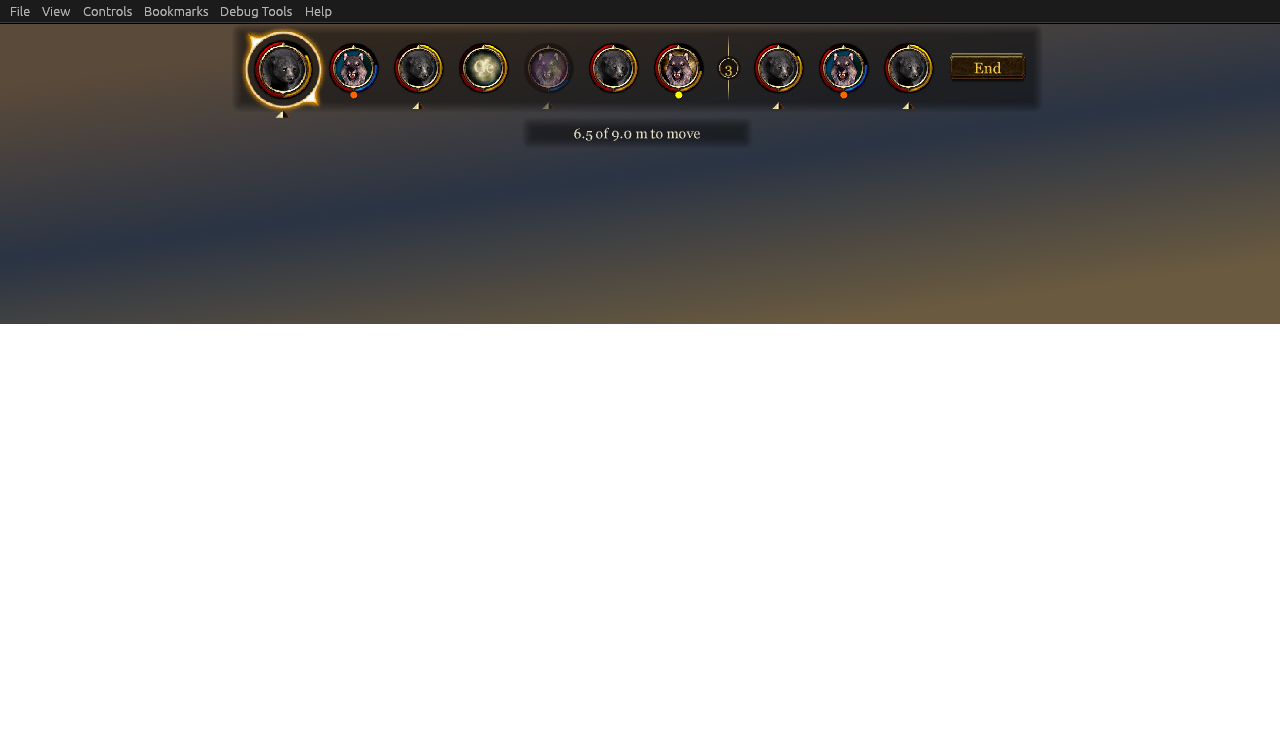
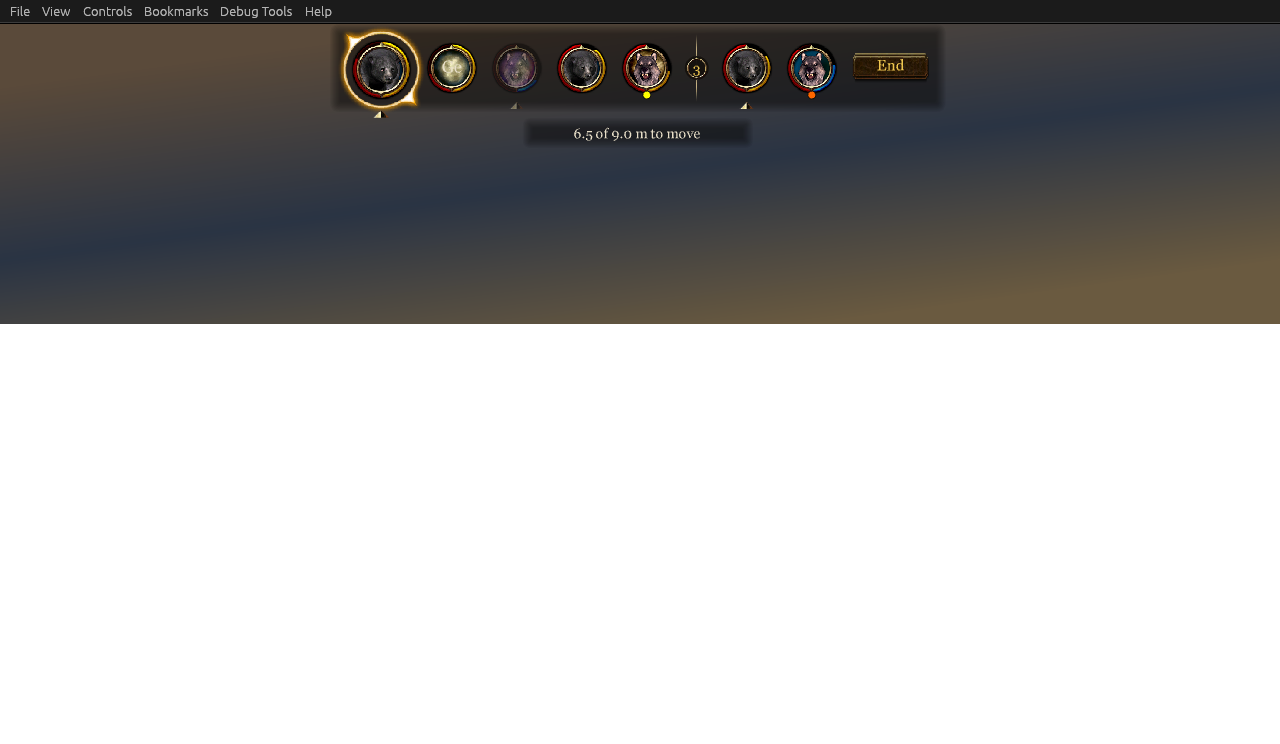
The turn bar shows each combatant once
The user: why twelve portraits, when one a character would do? The bar
showed the next twelve turns, everyone twice across two rounds. It shows
each combatant once now, as BG3's does: the current first, the rest of
this round, the round's divider, then the next round's up to the
current (at most twelve, for a big fight to fit). The portraits were one
render a creature already. The fourth play test's report comes with it.

Claude-Session: https://claude.ai/code/session_01SHrV5jHcG2TiBdHZ1wfhrC

Changed region(s): [[0.1875, 0.0309, 0.8125, 0.1546]]

diff --git a/tests/test_turnorder.cpp b/tests/test_turnorder.cpp
@@ -111,20 +111,24 @@ TEST_CASE("a combatant whose place has passed this round acts from the next", "[
     CHECK(order.Current()->id == 4);
 }
 
-TEST_CASE("the upcoming turns run on into the next round, without the fallen others", "[order]")
+TEST_CASE("the upcoming turns are each combatant once, running on into the next round", "[order]")
 {
     TurnOrder order;
     order.Begin({Make(1, Side::Party, 20), Make(2, Side::Party, 15), Make(3, Side::Enemy, 10)});
-    CHECK(Upcoming(order, 5) == std::vector<ObjectId>{1, 2, 3, 1, 2});
-    const auto slots = order.Upcoming(5);
+    CHECK(Upcoming(order, 12) == std::vector<ObjectId>{1, 2, 3});
+    CHECK_FALSE(order.Advance());                                 // to 2, the same round
+    CHECK(Upcoming(order, 12) == std::vector<ObjectId>{2, 3, 1}); // 1 again only next round
+    const auto slots = order.Upcoming(12);
     CHECK(slots[0].current);
     CHECK(slots[0].round == 1);
-    CHECK(slots[3].round == 2);
+    CHECK(slots[1].round == 1);
+    CHECK(slots[2].round == 2);
+    CHECK(Upcoming(order, 2) == std::vector<ObjectId>{2, 3}); // at most count
 
-    order.Find(2)->down = true; // a party member down: still shown
-    CHECK(Upcoming(order, 3) == std::vector<ObjectId>{1, 2, 3});
+    order.Find(1)->down = true; // a party member down: still shown
+    CHECK(Upcoming(order, 12) == std::vector<ObjectId>{2, 3, 1});
     order.Find(3)->down = true; // an enemy down: not
-    CHECK(Upcoming(order, 3) == std::vector<ObjectId>{1, 2, 1});
+    CHECK(Upcoming(order, 12) == std::vector<ObjectId>{2, 1});
 }
 
 TEST_CASE("a party all fallen stays in the order, and advancing goes round without end", "[order]")

diff --git a/tests/test_bar.cpp b/tests/test_bar.cpp
@@ -70,7 +70,7 @@ TEST_CASE("the bar's string says whose turn it is and who comes after", "[bar]")
     CHECK(bar.head[5] == L"1");                   // an action left
     CHECK(bar.head[6] == L"9.0");                 // meters left
     CHECK(bar.head[7] == L"9.0");                 // meters at most
-    REQUIRE(bar.cards.size() >= 5);
+    REQUIRE(bar.cards.size() == 4);               // each combatant once
     for (const auto &card : bar.cards)
     {
         REQUIRE(card.size() == 13);
@@ -86,7 +86,15 @@ TEST_CASE("the bar's string says whose turn it is and who comes after", "[bar]")
     CHECK(bar.cards[1][0] == std::to_wstring(kGenlock));
     CHECK(bar.cards[1][1] == L"2"); // an enemy
     CHECK(bar.cards[1][6] == L"0"); // the AI's
-    CHECK(bar.cards[4][7] == L"2"); // the next round's
+    // The hero's turn over: the genlock first, the hero last, next round's.
+    CHECK(w.machine.OnPauseKey());
+    w.Frame();
+    w.Frame();
+    const Decoded after = Decode(EncodeBar(w.machine.View()));
+    REQUIRE(after.cards.size() == 4);
+    CHECK(after.cards.front()[0] == std::to_wstring(kGenlock));
+    CHECK(after.cards.back()[0] == std::to_wstring(kHero));
+    CHECK(after.cards.back()[7] == L"2");
 }
 
 TEST_CASE("a name cannot break the bar's string apart", "[bar]")

diff --git a/src/core/TurnOrder.h b/src/core/TurnOrder.h
@@ -78,8 +78,10 @@ class TurnOrder
 
     [[nodiscard]] bool AnyStanding(Side side) const;
 
-    // The turns to come, the current first: the rest of this round, then
-    // the next, up to `count`. Fallen party members are included (they are
+    // The turns to come, the current first and each combatant once, as BG3's
+    // bar shows them: the rest of this round, then the next round's up to
+    // the current, at most `count`. Two laps had everyone twice on the bar
+    // (the user, 2026-09-30). Fallen party members are included (they are
     // still in the fight), fallen others not.
     [[nodiscard]] std::vector<Slot> Upcoming(std::size_t count) const;
 

diff --git a/tests/test_machine.cpp b/tests/test_machine.cpp
@@ -694,11 +694,11 @@ TEST_CASE("the view lists the turns to come, whose it is and what is left", "[ma
     CHECK(view.current == kHero);
     CHECK(view.actionsLeft == 1);
     CHECK(view.movementMax == 9.0f);
-    REQUIRE(view.upcoming.size() >= 4);
+    REQUIRE(view.upcoming.size() == 4); // each combatant once
     CHECK(view.upcoming[0].id == kHero);
     CHECK(view.upcoming[0].current);
     CHECK(view.upcoming[1].id == kGenlock);
-    CHECK(view.upcoming[4].round == 2);
+    CHECK(view.upcoming[3].round == 1);
 }
 
 TEST_CASE("new settings apply from the next turn", "[machine]")

diff --git a/tools/mutants.py b/tools/mutants.py
@@ -371,6 +371,12 @@ MUTANTS = [
         "    }\n    Emit(EventKind::FightOver",
     ),
     Mutant(
+        "the bar shows each combatant twice",
+        "src/core/TurnOrder.cpp",
+        "    for (std::size_t step = 1; step < order_.size() && slots.size() < count; ++step)",
+        "    for (std::size_t step = 1; step < 2 * order_.size() && slots.size() < count; ++step)",
+    ),
+    Mutant(
         "a stun in a creature's own turn is waited out",
         MACHINE,
         "                currentStunned_ = true;\n",

diff --git a/src/core/TurnOrder.cpp b/src/core/TurnOrder.cpp
@@ -145,7 +145,7 @@ std::vector<TurnOrder::Slot> TurnOrder::Upcoming(std::size_t count) const
     slots.push_back({&order_[current_], round_, true});
     std::size_t index = current_;
     int round = round_;
-    for (std::size_t step = 0; step < 2 * order_.size() && slots.size() < count; ++step)
+    for (std::size_t step = 1; step < order_.size() && slots.size() < count; ++step)
     {
         ++index;
         if (index >= order_.size())

diff --git a/dev/PLAYTEST-2026-09-30-4.md b/dev/PLAYTEST-2026-09-30-4.md
@@ -1,0 +1,47 @@
+# Play test 4, 2026-09-30 evening
+
+Two fights on commit `b63e52f` (DAOLib `0d8a434`), the `turnbased.dll` built at 19:12:23 from a clean tree, by the desktop agent. Same save and fight. Driven through Eluvian (its dll of 19:07:07, with the new `stage` tool for effects and deaths), with clicks for the door only. Other plugins: DAOLib's example and probe. Times are the logs'.
+
+| | Fight F | Fight G |
+|---|---|---|
+| Game | 19:16:01 to 19:24 | 19:24:32 to 19:28 |
+| Fight | 19:17:11 to 19:23:56, 6 rounds | 19:25:32 to 19:27:52, 8 rounds |
+| Settings | manual; tactics from round 3, `ai_turn_speed = 2` in round 4, manual again in round 5 | manual; tactics for round 1, manual from round 2; speed 1 |
+| What it was for | the staged cases, `turnbased.state`, speed_took, who is selected after | a clean hand-over, the borderline attack |
+| Log | `build\playtest-2026-09-30-8-turnbased.log`, `...-8-turnbased.events.jsonl` | `build\playtest-2026-09-30-9-turnbased.log`, `...-9-turnbased.events.jsonl` |
+
+The scripts that drove them are `build\stage3.py` and `build\stage6.py`. Settings are back to `manual` and `1`; the game is closed.
+
+## The seven checks
+
+1. **The bar: pass.** The round's number sits in the middle of its gold ring, End is centred on its leather, the movement caption is centred under the bar (`dev/images/turnorder-bar-2026-09-30-4.jpg`, `turnorder-ingame-2026-09-30-4.jpg`). My captures are scaled, so this is "looks centred", not a pixel count.
+2. **No slack past the movement left: pass.** Fight G, the case that slipped through last time: 19:26:10.434 `Aedan: attack refused, 9.3 m to walk with 9.0 m left`, `the refused attack: 12.8 m away, reach 3.5 m`, and `turnbased.refused {id 0x82, detail "Too far", command "attack", note "9.3 m to walk, 9.0 m left"}`. He had not taken a step and attacked the soldier at 4.7 m instead. Also 19:17:36.761, Eleanor, `11.7 m to walk`.
+3. **A failed path's action given back: not seen.** No attack failed with `COMMAND_FAILED_INVALID_PATH` in either fight, so there is no `action is given back` line and no `action_given_back` event to report. The doorway did not jam this time.
+4. **The hero after a fight: pass.** Both fights ended on the dog's player-run turn with the dog selected (`controlled: Dog` at 19:23:53.663), and afterwards the selection was Aedan (`effect: select 0x00000082` at 19:23:56.923; Eluvian `controlled: Aedan` in both).
+5. **`turnbased.state`: pass.** `current` is `{id 0x6a8, name Teyrna Eleanor, side party, yours true}` on her turn, with `actions_left 1`, `movement_left 9.0`, `phase awaiting order`; `order` matched the bar card for card, the second round's entries included, and showed Eleanor `down` after she fell; `held` listed the dog with `turns_owed 1` after its knockdown; `cooldowns` listed 617 and both 803s. `speed_took` was `null` before any AI turn at speed 2 (19:23:14.889) and `true` from the first one on (19:23:17.613, `speed 2.0`), back to `speed 1.0` on the hero's turn. One oddity: `last_refusal` read `Howe Soldier: wait from script held, not its turn` right after Eleanor's "Too far"; the AI's held commands overwrite the player's refusal within a frame, so the field never shows the one a tester wants.
+6. **Events.** `settings_changed` on every reload: yes. `turn_handed_over` on manual to tactics mid-turn: yes in the clean case (19:26:00.793, `detail "its AI's"`, with `Dog's turn is its AI's now` in the log; the dog then played). `condition_expired` when a hold runs out by itself: yes, three in fight F. Two gaps: no `turn_handed_over` and no log line when tactics goes back to manual on an AI's turn (19:26:22.042; the log only says later `attack from its own AI held: its turn is the player's`), and none in the case of finding 1.
+7. **The cases never reached before**, staged with Eluvian:
+   - **Shield Bash on the enemy whose turn is next**: 19:17:55.781 `Howe Soldier is held ...: 1 of its turns lost`, and 240 ms later `round 1: Howe Soldier's turn is lost to its condition (0 more)`. Its round-2 turn came normally (`condition_expired`).
+   - **A knockdown on the creature whose turn it is**, the dog on its player-run turn (a 6 s knockdown staged at 19:18:05.8): `busy with a execute effect the gate did not see; letting it run`, then `Dog is held ...: 1 of its turns lost`, `Dog's turn ends: stunned`. The same on an enemy's AI turn (soldier `0x7e1`, 19:21:17.607, 514 ms into its turn, its attack already ordered): `Howe Soldier's turn ends: stunned`. In both the turn in hand ended and the next one was lost as well (finding 2).
+   - **A party member falling**: Eleanor killed during a soldier's turn, 19:21:18.147 `Teyrna Eleanor falls`, `"event":"fell"`. From the next round the order line reads `Teyrna Eleanor 21 (party) down, *Howe Soldier 17 ...`, she has no turn, `turnbased.state` shows her `down`, and the fight goes on (I did not look at her card on the bar). After the fight she stood up with 63 of 176 health, as the game does.
+   - **A conversation mid-fight**: still not reached; nothing in this fight starts one.
+
+## Findings, worst first
+
+1. **A turn handed to the AI right after the mod ended a condition is wasted.** Fight F, round 3. 19:21:27.379 `Dog's condition has had its turns: ended`, `round 3: Dog's turn (party, yours)`, `0x000002df: ended knockdown`, `busy with a execute effect the gate did not see; letting it run`. 19:21:27.430, `settings reloaded` with `party = tactics`. No `Dog's turn is its AI's now`, no `turn_handed_over`. Three seconds later `Dog's turn ends: chose nothing`, `Dog (0x000002df) chose nothing: combat state 1, disabled flags 0x0, stun 0 paralyze 0 knockdown 0 daze 0 sleep 0, current command 0, 0 queued, light AI 0, custom AI 0`. The same switch 50 ms into an ordinary turn (fight G) handed over and the dog attacked. So the hand-over is lost while the ended effect's command is still running, and the AI is never poked.
+2. **A knockdown during a creature's own turn costs it two turns.** The turn in hand ends at once (`turn ends: stunned`), with whatever action was left, and `1 of its turns lost` then takes the next turn too: the dog knocked down in round 1 next acted in round 3 (`ended knockdown`), the soldier knocked down in round 2 next acted in round 4. A 6 s knockdown is one round by the mod's own clock. Whether the turn it interrupts should count as the lost one is a design call; today the same knockdown costs one turn if it lands a moment before the turn and two if it lands a moment after.
+3. **The hero can be held turn after turn.** With initiative 3 Aedan was last in the round and both archers acted just before him: held 19:21:24.509 (603), round 2 lost; held 19:21:35.175 (803), round 3 lost; first action in round 4. Each hold was one turn and each ran out by itself (`condition_expired`). This is play test 2's finding 6 from the other side, and belongs with it as a design question.
+4. **Tactics to manual on an AI's turn leaves no trace** (check 6): the turn does become the player's, with the action already spent, but there is no log line and no event to say so.
+5. **`turnbased.state.last_refusal` is always an AI's** (check 5).
+6. **When the last enemies die outside anyone's attack, the mod waits for the engine.** With all four killed by `stage` at 19:23:54.122 on the dog's turn, the fight ended 2.8 s later as `the game ended combat`, not as `no enemy left standing`; in between the dog's turn stayed open with nothing to attack. Harmless here, and only a staged case.
+7. **An archer's ability that ends in 22 ms.** 19:21:52.877 `Howe Archer: use ability (action, from script)`, 19:21:52.899 `use ability held, no action left`, `ability 803 of 0x000007d9 held for 2 of its user's turns`, turn over in 0.56 s and nobody pinned. The cooldown was charged for a shot that does not seem to have been fired; the same archer's 803 had been `ready again` at the start of that turn.
+
+No crash, no crash log, no `holds it still`, no `did not take`.
+
+## Speed, for the record
+
+Not retested here, as agreed. The measurements of play test 3 stand as measurements (walks and swings take the same wall-clock time at speed 2), the user has watched the same fights and sees them faster, and lib-agent has the discrepancy. Two further runs for lib-agent, with DAOLib's speed example alone in a real-time fight and with an experimental build that scaled a second frame timer, gave the hero 4.5 m/s in combat with and without the speed set (`C:\project\DAOLib\build\playtest-2026-09-30\`).
+
+## Eluvian's stage tool
+
+`stage {"action":"effect","id":"0x2df","effect":"knockdown","seconds":6}` and `{"action":"kill","id":"0x6a8"}` did what they say and the mod saw both as it sees the game's own. They turn "never reached" into a two-line script. `turnbased.state` removed the need to replay events to find the open turn; a script started mid-turn now reads `current` and acts.

diff --git a/dev/TESTING.md b/dev/TESTING.md
@@ -32,10 +32,10 @@ What the first session in play found (2026-09-30), now fixed and held by scripte
 ```powershell
 .\tools\build.ps1 -Preset core -Test          # src/core and the tests only: no DAOLib, no plugin
 .\tools\build.ps1 -Preset core-cov -Coverage  # 64-bit clang-cl; per-file coverage, HTML in build\core-cov\coverage\html
-python tools\mutants.py                        # break the core 82 ways, one at a time; each must fail a test
+python tools\mutants.py                        # break the core 83 ways, one at a time; each must fail a test
 ```
 
-**Coverage** (2026-09-30): 90% of `src/core`'s regions, 89% of its lines, before the tests coverage prompted; what it showed unrun led to the arena's knockdowns, deaths mid-turn and vanishing creatures, and to a key-formatting bug (a key with no name was written `0x` and its decimal code). **Mutants** (`tools/mutants.py`): each breaks one promise (the gate letting anyone act, an action never spent, the pause never taken, the turn never passing on, a joiner's place ignored, ...), builds, and runs the suite; a survivor is a promise no test holds. 82 of 82 caught (2026-09-30). A new promise gets a mutant of its own.
+**Coverage** (2026-09-30): 90% of `src/core`'s regions, 89% of its lines, before the tests coverage prompted; what it showed unrun led to the arena's knockdowns, deaths mid-turn and vanishing creatures, and to a key-formatting bug (a key with no name was written `0x` and its decimal code). **Mutants** (`tools/mutants.py`): each breaks one promise (the gate letting anyone act, an action never spent, the pause never taken, the turn never passing on, a joiner's place ignored, ...), builds, and runs the suite; a survivor is a promise no test holds. 83 of 83 caught (2026-09-30). A new promise gets a mutant of its own.
 
 A lesson from the second pass: the reach check changed the arena's random draws, and two mutants that the fights had caught survived. The refund limit and a joiner being stopped had been held only by rare sequences, which the new streams no longer reached in seeds 1-80. So a promise the random fights happen to hold gets a scripted test as well (`test_machine.cpp`: "an action stopped short is given back once a turn", "a creature that joins the fight stops what it was doing"), and the mutants are run after any change to the arena, not only to the core. It happened again with the unnamed holds: "a conversation between two turns resumes a turn never begun" survived, and got its scripted test.
 

diff --git a/CLAUDE.md b/CLAUDE.md
@@ -62,7 +62,7 @@ The machine is not thread-safe by itself: `src/plugin/Plugin.cpp` holds a mutex 
 
 A change to `src/core`'s logic also runs `build\core\tests\tb_tests.exe "[fights-long]"` (a thousand random fights, half a minute) and `python tools\mutants.py` (each mutant must be caught; a new promise gets a mutant). `-Preset core-cov -Coverage` shows what the tests never run. `dev/TESTING.md` has what each found.
 
-Last green 2026-09-30, all of it, against DAOLib `0d8a434`: 129 tests (the Python tools' among them), 1,000 fights, 82 of 82 mutants caught, ASan clean, clang-tidy clean, /analyze clean; the movie built and its sample seen in Ruffle. Run the mutants after a change to the random fights' arena too: a change to its draws can stop the default seeds reaching a rare case (`dev/TESTING.md`).
+Last green 2026-09-30, all of it, against DAOLib `0d8a434`: 129 tests (the Python tools' among them), 1,000 fights, 83 of 83 mutants caught, ASan clean, clang-tidy clean, /analyze clean; the movie built and its sample seen in Ruffle. Run the mutants after a change to the random fights' arena too: a change to its draws can stop the default seeds reaching a rare case (`dev/TESTING.md`).
 
 ## Writing files from the shell
 
